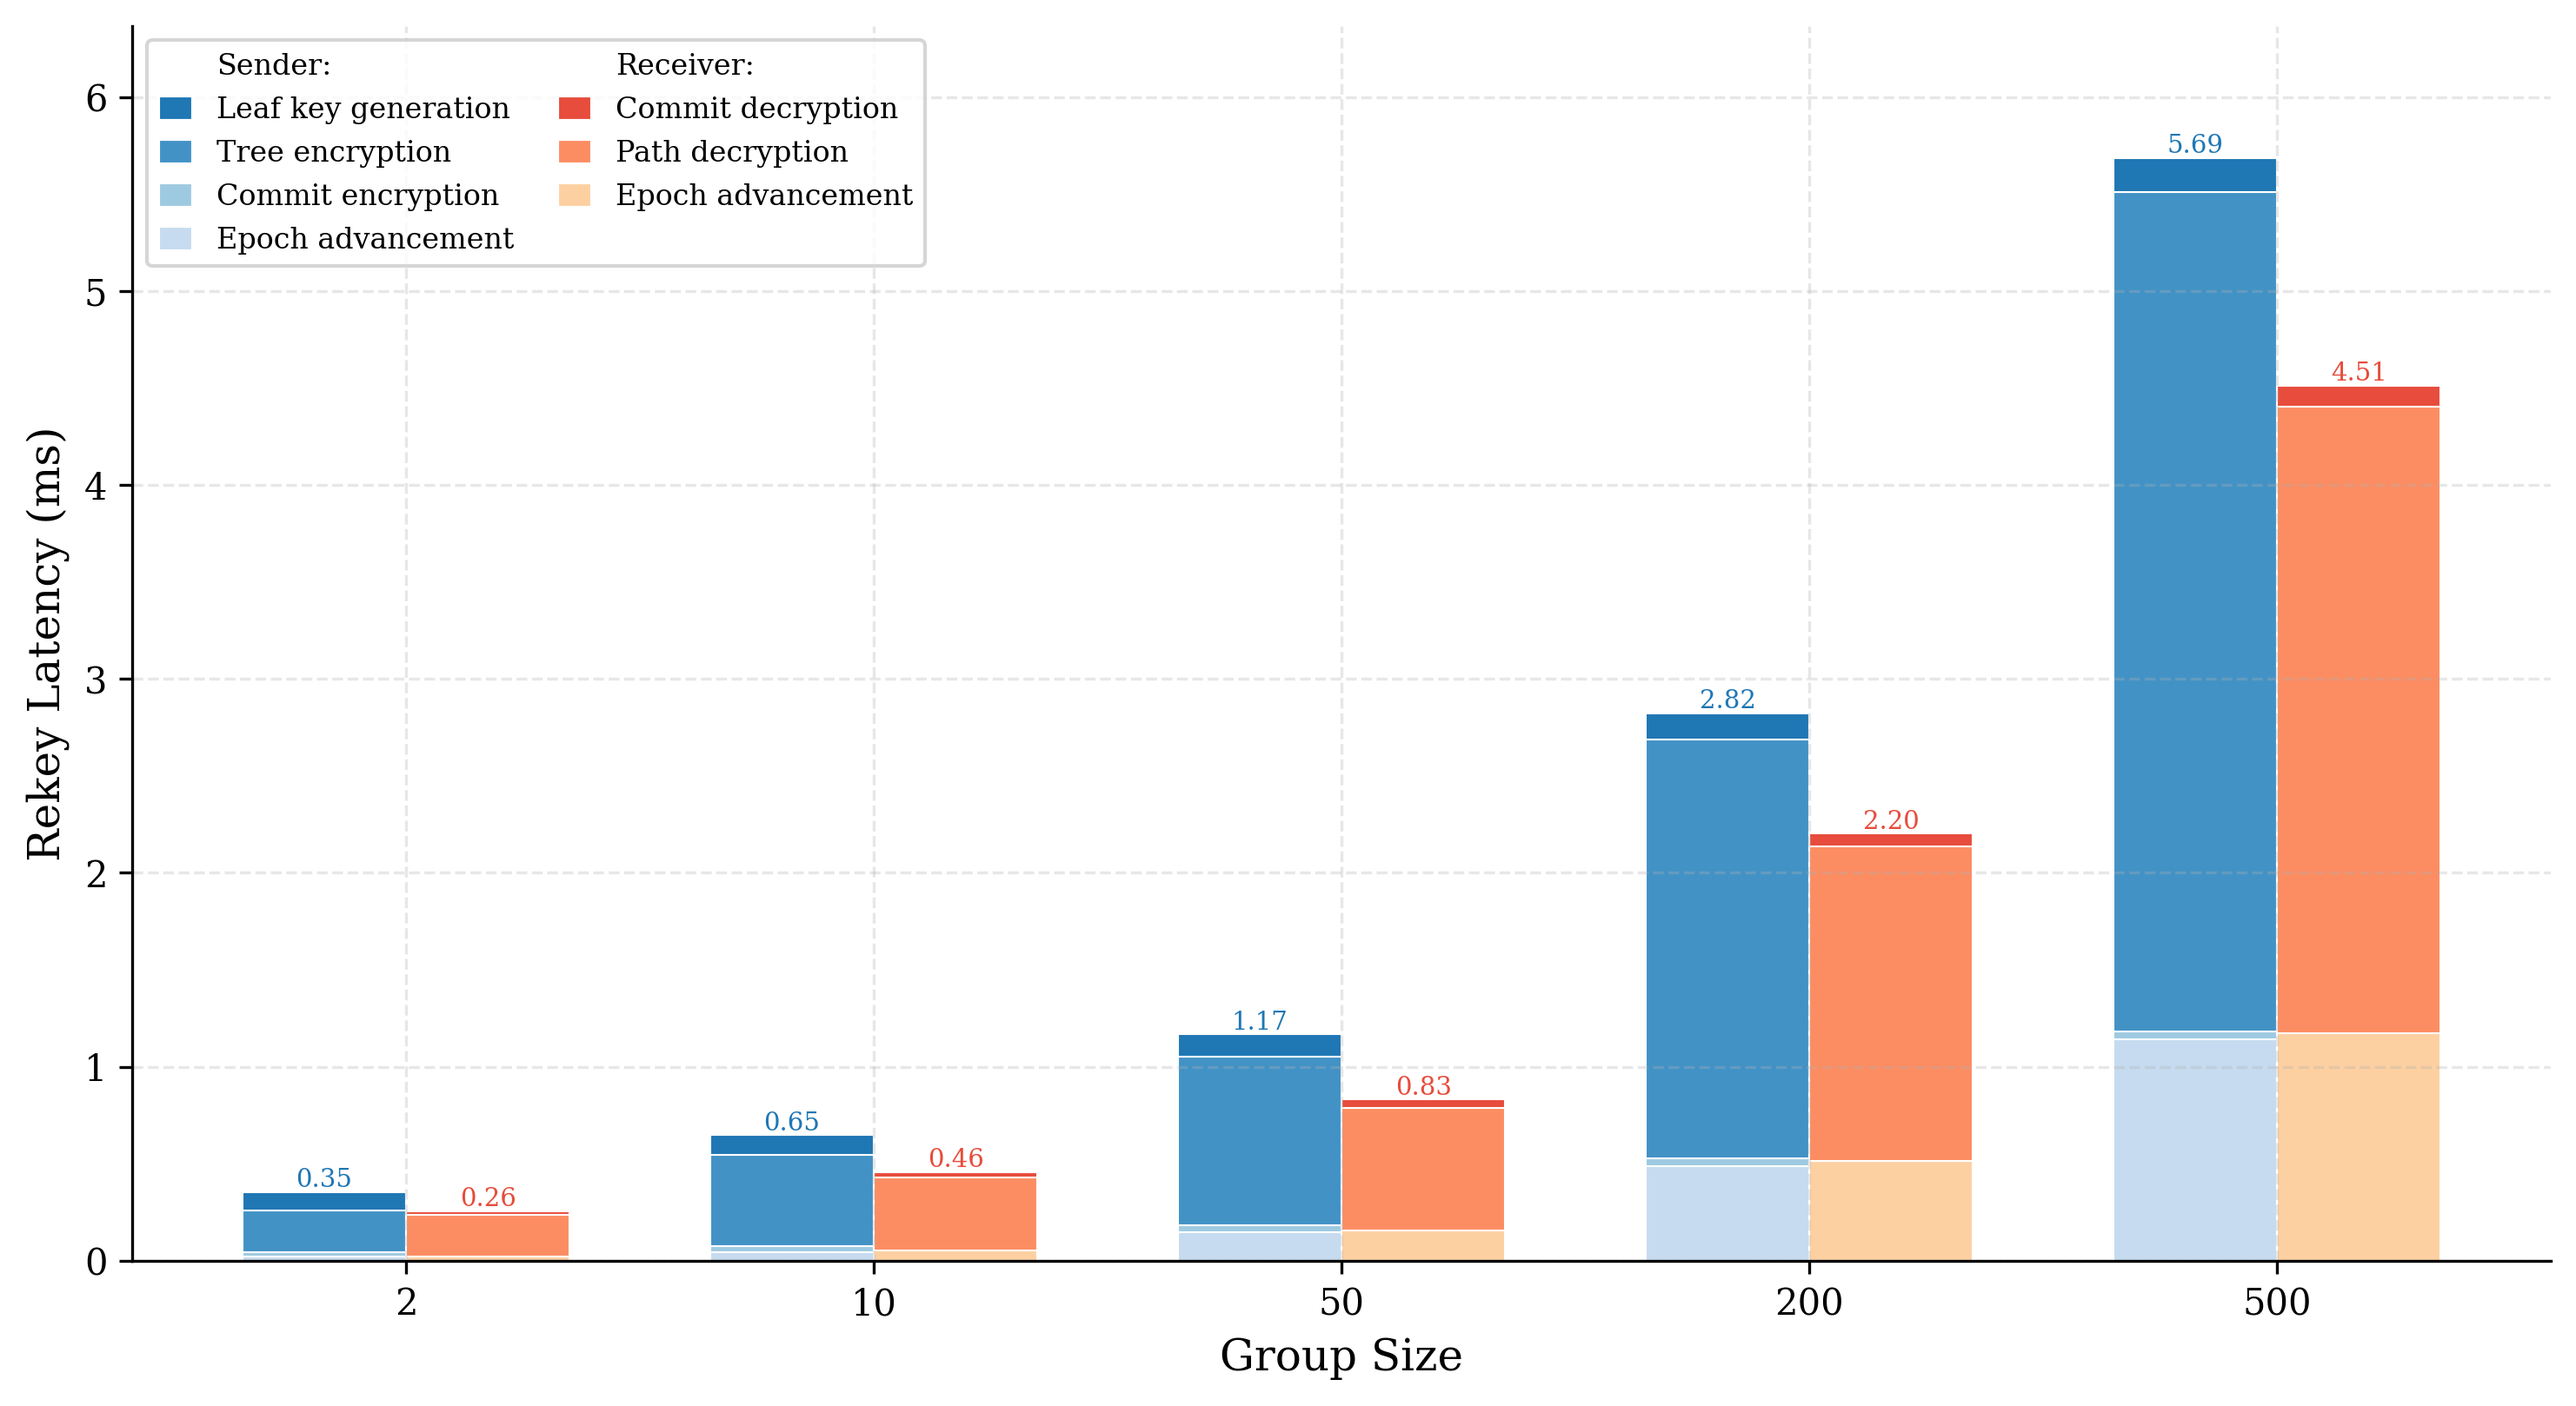
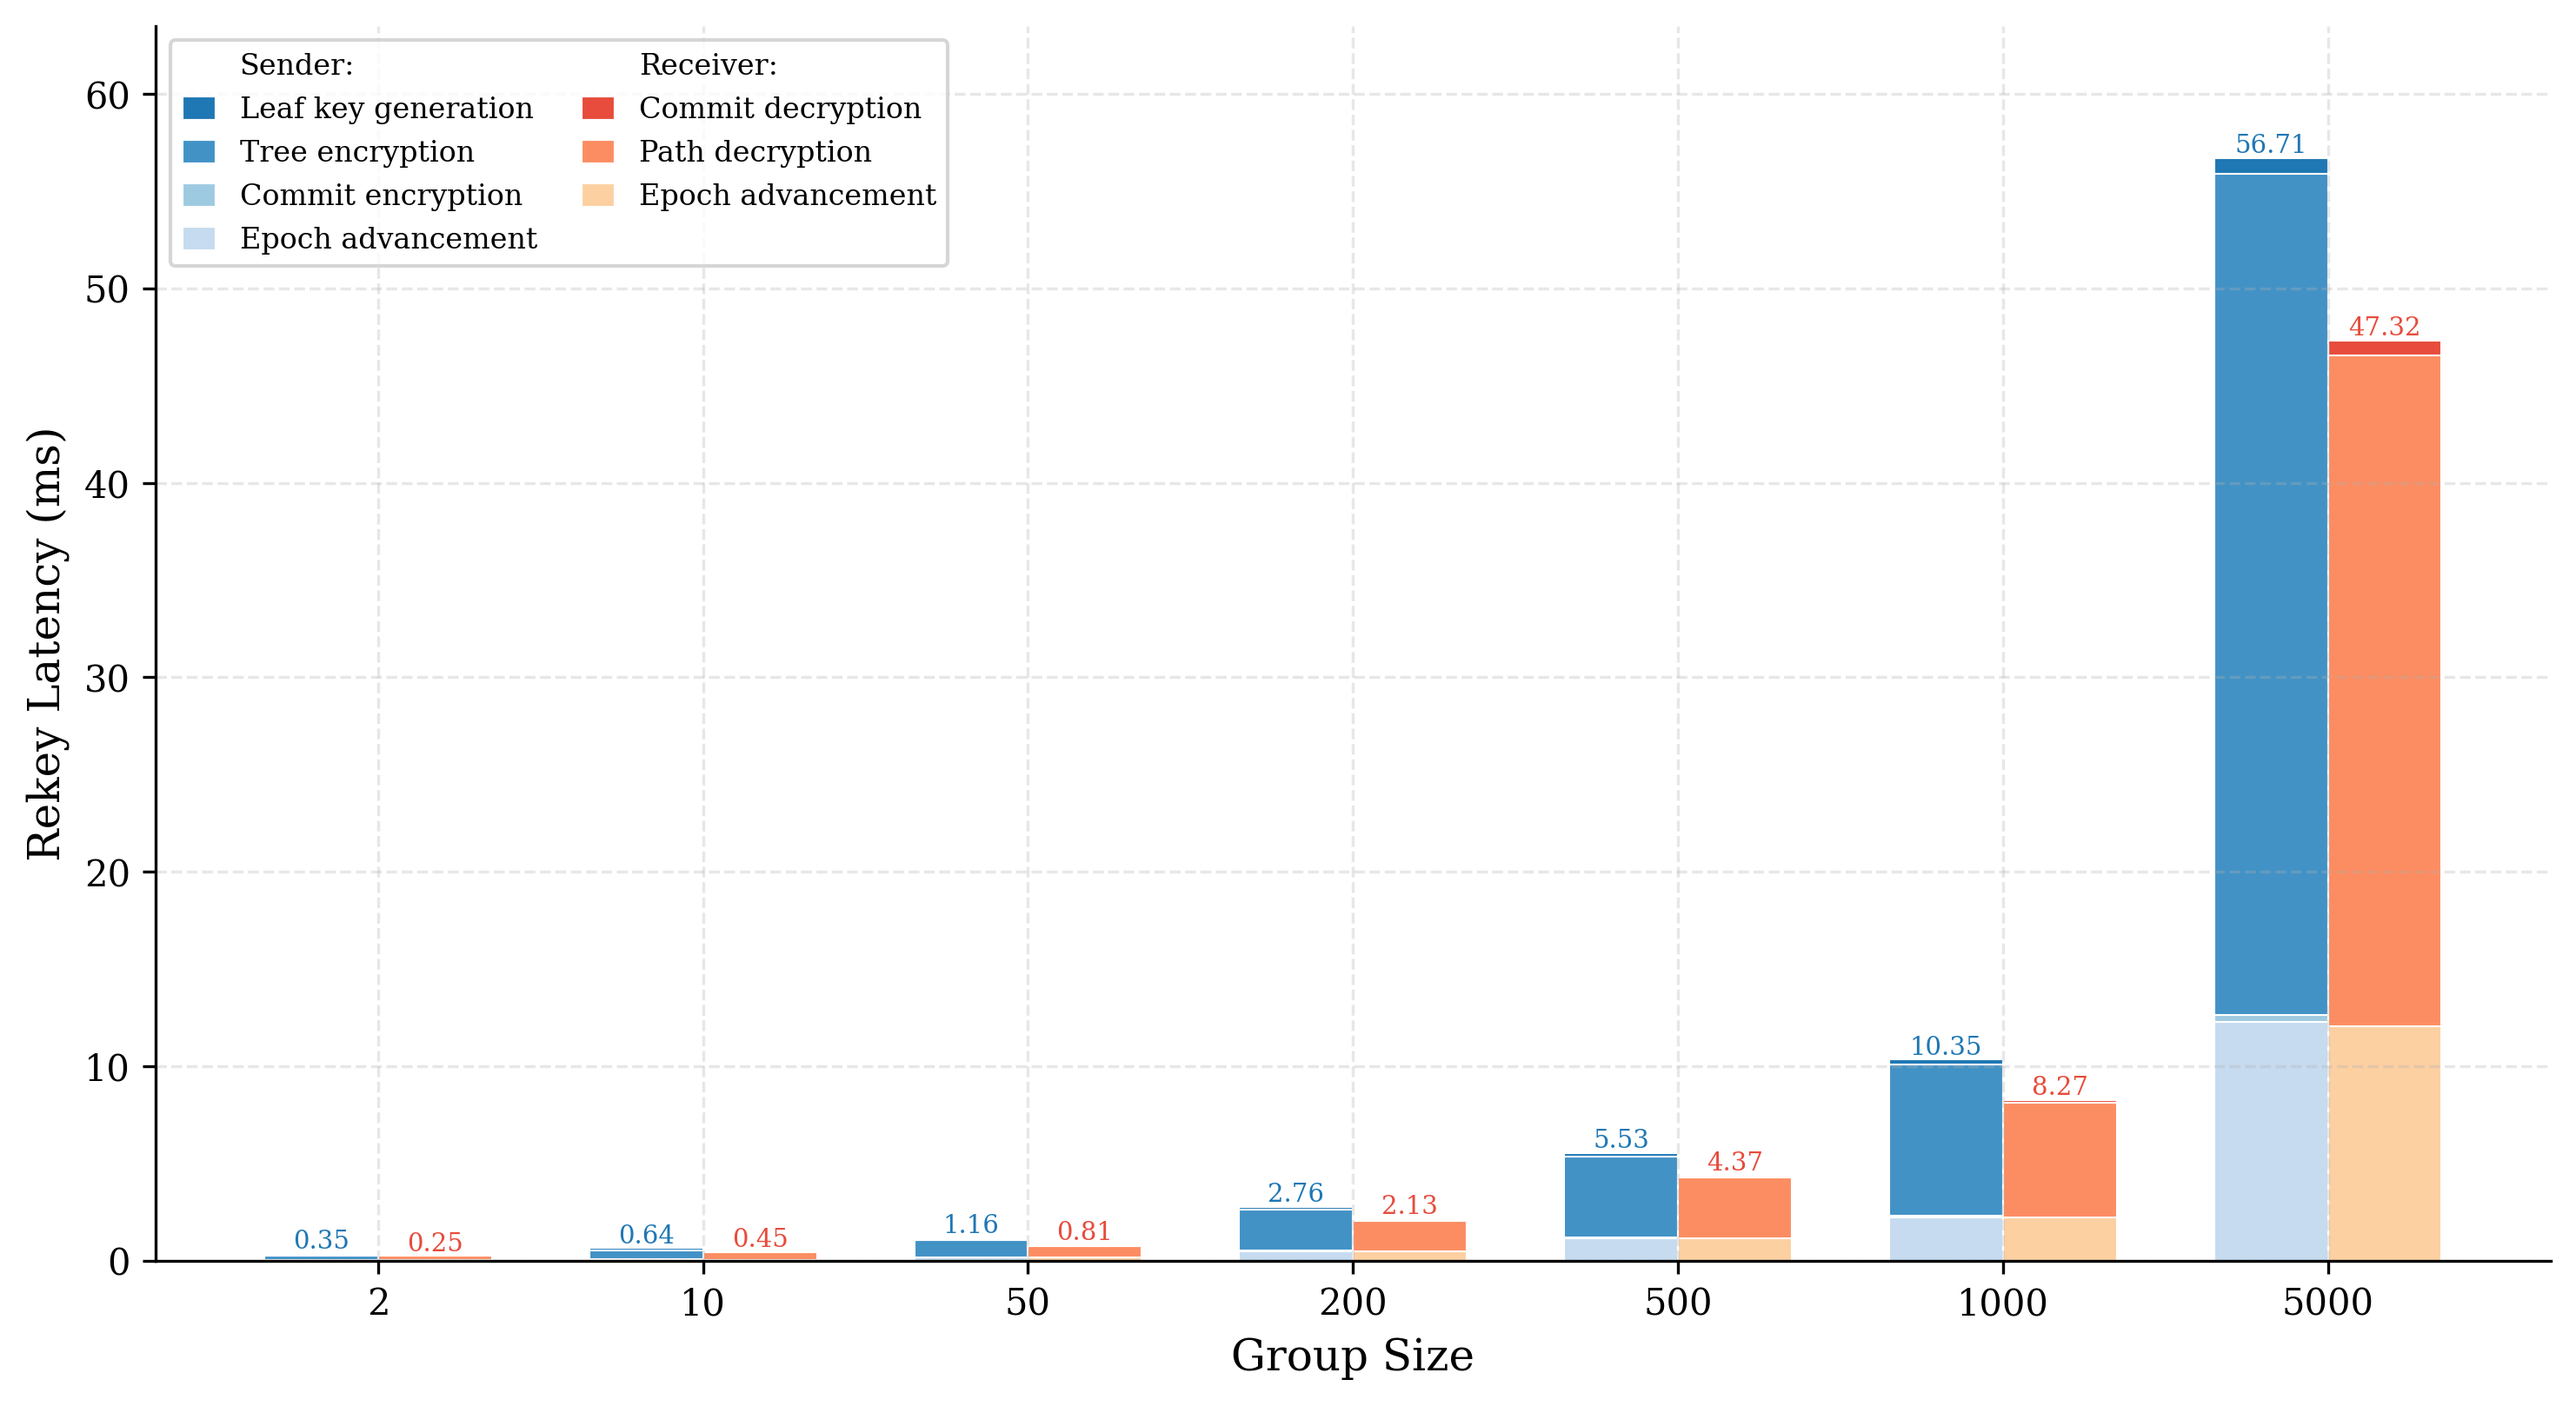
new figure of rekey (1000 and 5000 members)

Changed region(s): [[0.0931, 0.0927, 0.9625, 0.958], [0.031, 0.0309, 0.3726, 0.8962], [0.4657, 0.958, 0.5899, 0.9889]]

diff --git a/crates/mls-srtp-core/benches/rekey_breakdown.rs b/crates/mls-srtp-core/benches/rekey_breakdown.rs
@@ -37,7 +37,7 @@ use openmls_basic_credential::SignatureKeyPair;
 use openmls_rust_crypto::OpenMlsRustCrypto;
 use openmls_traits::OpenMlsProvider;
 
-const GROUP_SIZES: &[usize] = &[2, 10, 50, 200, 500];
+const GROUP_SIZES: &[usize] = &[2, 10, 50, 200, 500, 1000, 5000];
 
 // ---------------------------------------------------------------------------
 // Group setup
